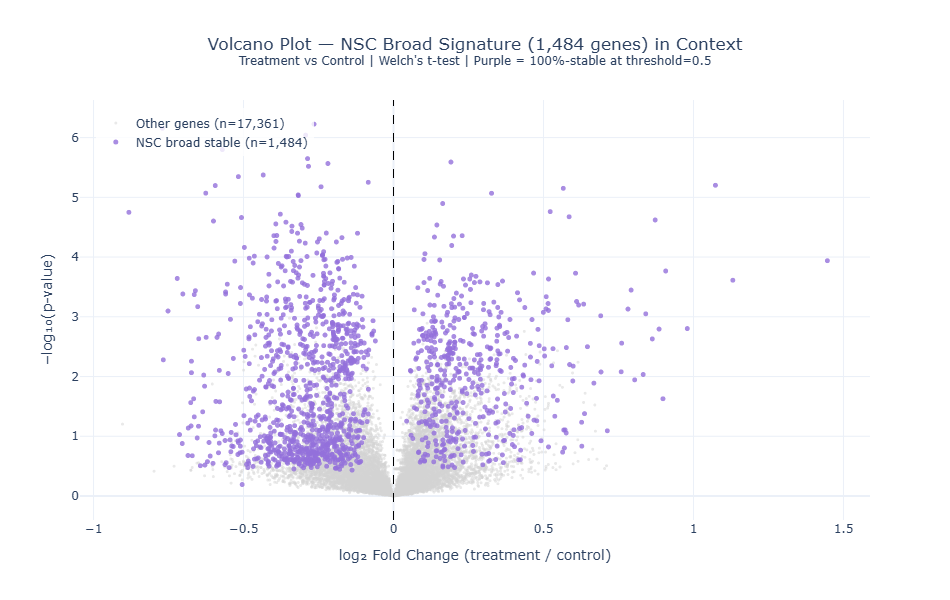
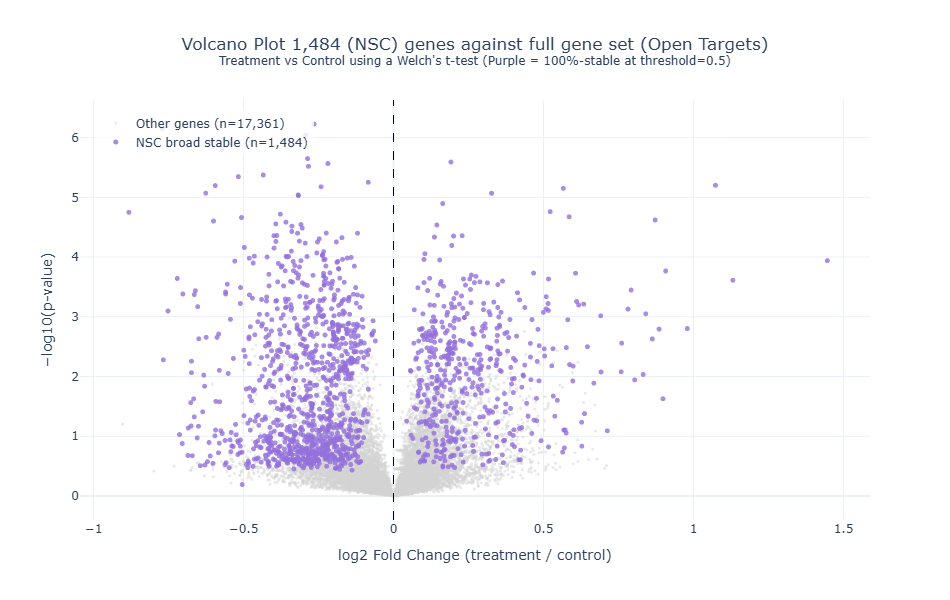
finishing touches and edits. Updated readme

Changed region(s): [[0.1832, 0.06, 0.8242, 0.12], [0.3663, 0.9, 0.6411, 0.93], [0.0305, 0.42, 0.0611, 0.6]]

diff --git a/load_data.py b/load_data.py
@@ -35,7 +35,10 @@ def raw_data():
 
 #helper for pipeline_pull_opentargets
 def unwrap_ids(cell):
-    """Extract list of EFO IDs from BQ's nested dict structure."""
+    '''handles checking whta format the data comes in as from Big Query
+    three cases are BQ nested dict, already in a list or tuple so convert 
+    directly no unwrapping needed, and none will return empty list 
+    so nothing breaks later'''
     if cell is None:
         return []
     if isinstance(cell, dict) and 'list' in cell:
@@ -64,6 +67,7 @@ def pipeline_pull_opentargets():
     gene_list = [c for c in cpm.columns if c.startswith('ENSG')]
 
 
+    # SQL for bigquery
     ot_query = """
     SELECT
     a.targetId AS gene_id,
@@ -83,8 +87,7 @@ def pipeline_pull_opentargets():
     )
     disease_associations = client.query(ot_query, job_config=job_config).to_dataframe()
 
-    # === Resolve therapeutic area IDs to names ===
-
+    # therapeutic area IDs are nested lists, so we need to unwrap them and get unique IDs
     # Collect unique therapeutic area IDs
     all_ta_ids = set()
     for cell in disease_associations['therapeutic_area_ids'].dropna():
@@ -92,7 +95,7 @@ def pipeline_pull_opentargets():
             all_ta_ids.add(ta)
     all_ta_ids = list(all_ta_ids)
 
-    # Look up readable names
+    # Look up readable names as therapeutic area query
     ta_query = """
     SELECT id, name
     FROM `open-targets-prod.platform.disease`
@@ -109,12 +112,12 @@ def pipeline_pull_opentargets():
         lambda cell: [ta_dict.get(i, i) for i in unwrap_ids(cell)]
     )
 
-    # Save
+    # Save as parquet 
     disease_associations.to_parquet('data/disease_associations.parquet')
 
 
 
 if __name__ == "__main__":
     #raw_data() # only run once to create original parquet file
-    pipeline_pull_opentargets() # for grabbing the opentargets data
+    pipeline_pull_opentargets() # run for grabbing the opentargets data
 

diff --git a/README.md b/README.md
@@ -6,4 +6,8 @@
 
 **PCA_Analysis.ipynb** — Runs PCA on standardized gene expression values using `sample_by_gene.parquet`, and produces plots of the first two principal components to measure gene variance between treatments and control. Computes log2 fold change of the target gene (SNHG14) per treatment to rank effectiveness, and measures Euclidean distance from each treatment to the Control centroid in PCA space as a proxy for safety (minimum variation from other genes). Combines both metrics into a Pareto optimality scatter plot to identify treatments that best balance SNHG14 knockdown with minimal off-target disruption.
 
-**NCS_treatments.ipynb** - 
+**opentargets_analysis.ipynb** - Queries the Open Targets public BigQuery platform to retrieve gene-disease association scores for all genes present in the expression matrix. Joins the `association_overall_direct` and `disease` tables, filtering to associations with a score above 0.1, and resolves therapeutic area IDs to human-readable names. Saves the resulting gene-disease association table as `disease_associations.parquet` for later analysis. Visualizes the therapeutic areas across the Pareto-optimal treatments.
+
+
+**NSC_treatments.ipynb** - Runs Nearest Shrunken Centroid (NSC) bootstrap stability analysis on the Pareto-optimal treatments identified in `PCA_Analysis.ipynb`, using Apache Spark on a Google Cloud Dataproc cluster to parallelize 1,800 model fits across bootstrap replicates, permutation nulls, and shrinkage thresholds. Identifies three tiers of stably selected genes and characterizes their disease associations using `disease_associations.parquet`. Computes per-treatment off-target burden scores weighted by Open Targets association evidence, and decomposes burden into shared (NSC-selected) and treatment-specific components to identify the safest Pareto-optimal candidate. Visualizations and tables included for each step of the process.
+
